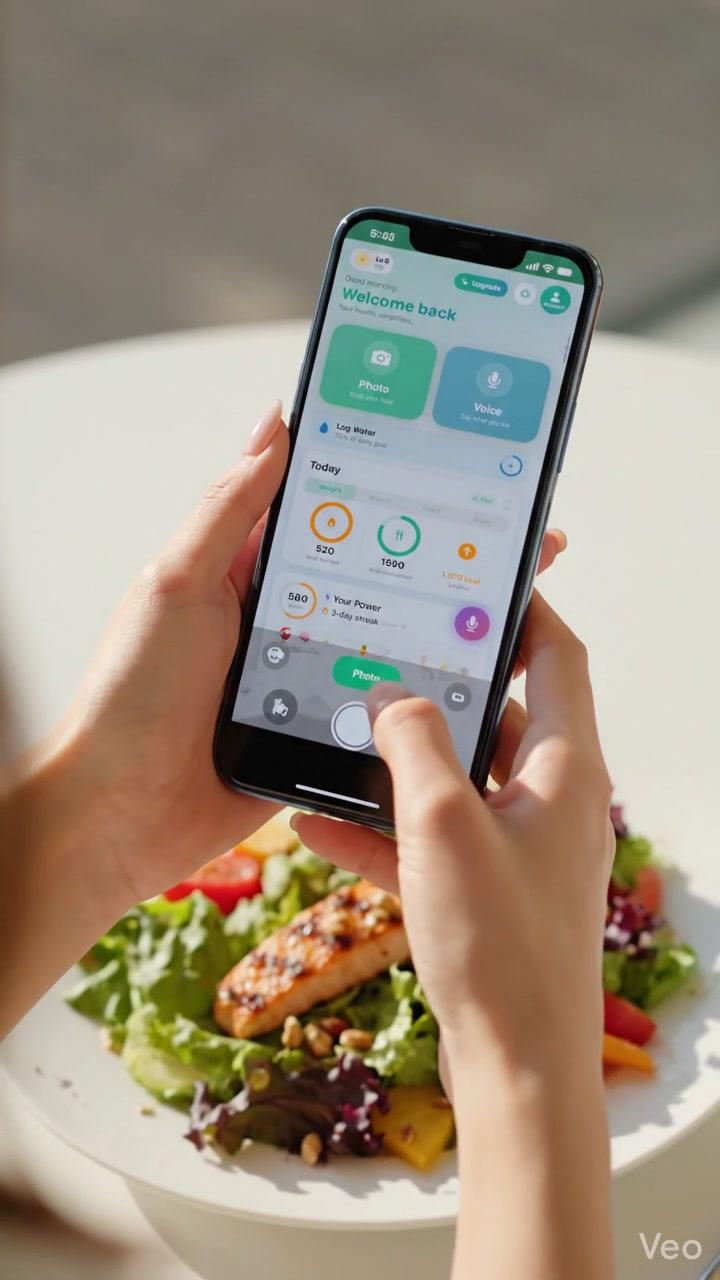
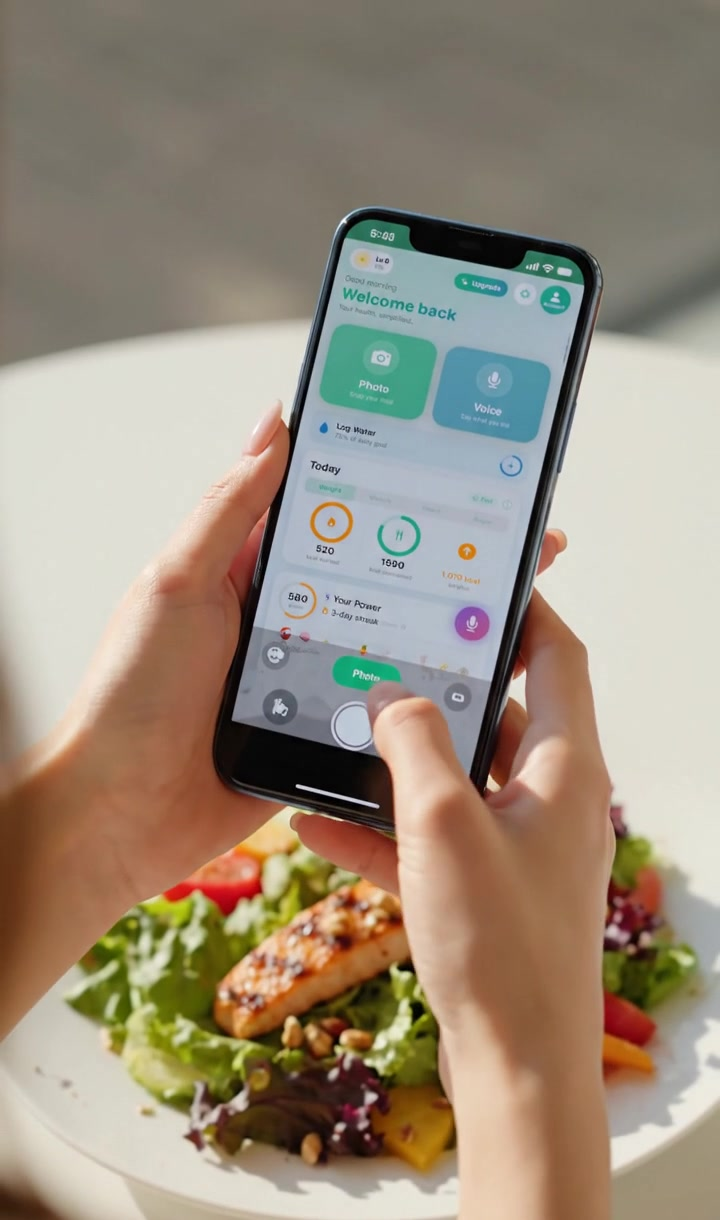
Update lifestyle images, crop watermarks, remove notches, add A/B preview param

diff --git a/index.html b/index.html
@@ -2091,7 +2091,7 @@
     <div style="max-width: 1200px; margin: 0 auto; padding: 3rem 2rem;">
         <div class="lifestyle-grid">
             <div class="lifestyle-item">
-                <img src="assets/lifestyle_friends_app.jpg" alt="Friends using HealthyOne together">
+                <img src="assets/lifestyle_photo_meal.jpg" alt="Using HealthyOne to photograph a healthy meal">
             </div>
             <div class="lifestyle-item">
                 <video autoplay muted loop playsinline>
